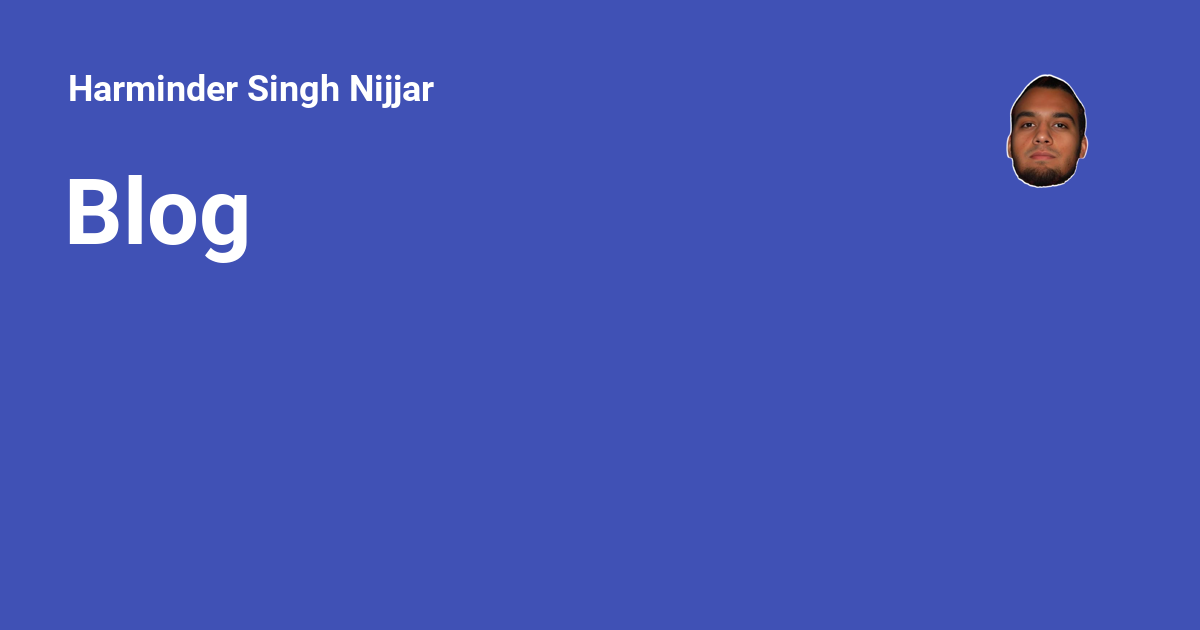
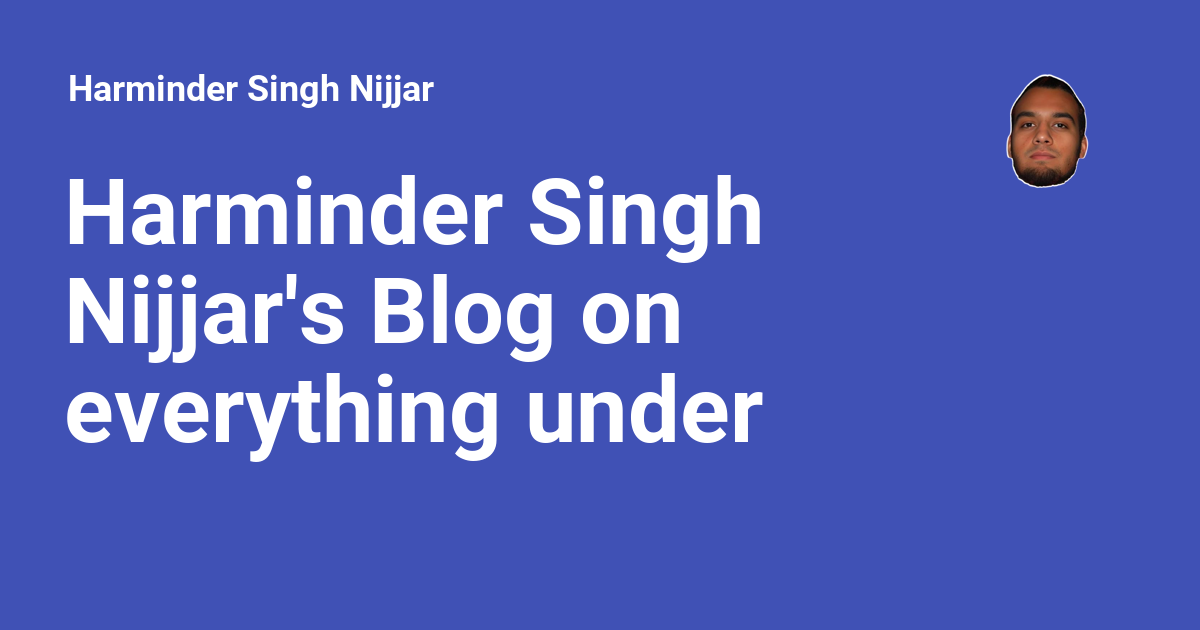
Deployed a961a94 with MkDocs version: 1.6.1

Changed region(s): [[0.0308, 0.2714, 0.6475, 0.573], [0.0308, 0.573, 0.6475, 0.754]]

diff --git a/index.html b/index.html
@@ -11,7 +11,7 @@
 <link href="blog/" rel="next"/>
 <link href="assets/images/favicon.png" rel="icon"/>
 <meta content="mkdocs-1.6.1, mkdocs-material-9.5.45" name="generator"/>
-<title>Home - Harminder Singh Nijjar</title>
+<title>Harminder Singh Nijjar - Personal Documentation Site - Harminder Singh Nijjar</title>
 <link href="assets/stylesheets/main.0253249f.min.css" rel="stylesheet"/>
 <link href="assets/stylesheets/palette.06af60db.min.css" rel="stylesheet"/>
 <link crossorigin="" href="https://fonts.gstatic.com" rel="preconnect">
@@ -34,7 +34,7 @@
 <meta content="Harminder Singh Nijjar" name="twitter:title"/>
 <meta content="None" name="twitter:description"/>
 <meta content="https://harminder.dev/assets/images/social/index.png" name="twitter:image"/>
-<meta content="Home" name="title"/><link href="https://cdnjs.cloudflare.com/ajax/libs/font-awesome/6.4.2/css/all.min.css" rel="stylesheet"><meta content="website" property="og:type"/><meta content="https://harminder.dev/" property="og:url"/><meta content="Home" property="og:title"/><meta content="Welcome to my personal documentation site, a curated collection of notes, guides, and insights that I have found valuable. It is my hope that you will find these resources equally beneficial." property="og:description"/><meta content="summary_large_image" property="twitter:card"/><meta content="https://harminder.dev/" property="twitter:url"/><meta content="Home" property="twitter:title"/><meta content="Welcome to my personal documentation site, a curated collection of notes, guides, and insights that I have found valuable. It is my hope that you will find these resources equally beneficial." property="twitter:description"/><script type="application/ld+json">{"@context": "https://schema.org", "@type": "Article", "headline": "Home", "image": [], "datePublished": "2024-11-24 13:38:12 -0800", "dateModified": "2024-11-25 14:06:06 -0800", "author": [{"@type": "Organization", "name": "Ultralytics", "url": "https://ultralytics.com/"}], "abstract": "Welcome to my personal documentation site, a curated collection of notes, guides, and insights that I have found valuable. It is my hope that you will find these resources equally beneficial."}</script></head>
+<meta content="Harminder Singh Nijjar - Personal Documentation Site" name="title"/><link href="https://cdnjs.cloudflare.com/ajax/libs/font-awesome/6.4.2/css/all.min.css" rel="stylesheet"><meta content="website" property="og:type"/><meta content="https://harminder.dev/" property="og:url"/><meta content="Harminder Singh Nijjar - Personal Documentation Site" property="og:title"/><meta content="Welcome to my personal documentation site, a curated collection of notes, guides, and insights that I have found valuable. It is my hope that you will find these resources equally beneficial." property="og:description"/><meta content="summary_large_image" property="twitter:card"/><meta content="https://harminder.dev/" property="twitter:url"/><meta content="Harminder Singh Nijjar - Personal Documentation Site" property="twitter:title"/><meta content="Welcome to my personal documentation site, a curated collection of notes, guides, and insights that I have found valuable. It is my hope that you will find these resources equally beneficial." property="twitter:description"/><script type="application/ld+json">{"@context": "https://schema.org", "@type": "Article", "headline": "Harminder Singh Nijjar - Personal Documentation Site", "image": [], "datePublished": "2024-11-24 13:38:12 -0800", "dateModified": "2024-11-25 14:06:06 -0800", "author": [{"@type": "Organization", "name": "Ultralytics", "url": "https://ultralytics.com/"}], "abstract": "Welcome to my personal documentation site, a curated collection of notes, guides, and insights that I have found valuable. It is my hope that you will find these resources equally beneficial."}</script></head>
 <body data-md-color-accent="custom" data-md-color-primary="custom" data-md-color-scheme="slate" dir="ltr">
 <input autocomplete="off" class="md-toggle" data-md-toggle="drawer" id="__drawer" type="checkbox"/>
 <input autocomplete="off" class="md-toggle" data-md-toggle="search" id="__search" type="checkbox"/>
@@ -64,7 +64,7 @@
 <div class="md-header__topic" data-md-component="header-topic">
 <span class="md-ellipsis">
             
-              Home
+              Harminder Singh Nijjar - Personal Documentation Site
             
           </span>
 </div>
@@ -127,7 +127,7 @@
   
     
   
-  Home
+  Harminder Singh Nijjar - Personal Documentation Site
 
       </a>
 </li>
@@ -161,13 +161,13 @@
 <input class="md-nav__toggle md-toggle" id="__toc" type="checkbox"/>
 <label class="md-nav__link md-nav__link--active" for="__toc">
 <span class="md-ellipsis">
-    Home
+    Harminder Singh Nijjar - Personal Documentation Site
   </span>
 <span class="md-nav__icon md-icon"></span>
 </label>
 <a class="md-nav__link md-nav__link--active" href=".">
 <span class="md-ellipsis">
-    Home
+    Harminder Singh Nijjar - Personal Documentation Site
   </span>
 </a>
 <nav aria-label="Table of contents" class="md-nav md-nav--secondary">
@@ -236,7 +236,7 @@
 </div>
 <div class="md-content" data-md-component="content">
 <article class="md-content__inner md-typeset">
-<h1>Home</h1>
+<h1>Harminder Singh Nijjar - Personal Documentation Site</h1>
 <p>Welcome to my personal documentation site, a curated collection of notes, guides, and insights that I have found valuable. It is my hope that you will find these resources equally beneficial.  </p>
 <p>Please note that this site is a continuous work in progress, with new content regularly added and existing content frequently updated. The information provided is based on my personal experiences and perspectives, which may not align with every individual's circumstances. Your feedback and suggestions are always welcome, and I encourage you to share your thoughts.  </p>
 <h2 id="projects">Projects</h2>
@@ -244,7 +244,7 @@
 <p>Upon completion, projects will be archived for future reference, so be sure to explore the archive section for a record of past work.  </p>
 <h2 id="blog">Blog</h2>
 <p>The <a href="/blog">blog</a> section features a variety of posts on topics that capture my interest. These include tutorials, guides, opinion pieces, and other content that I hope will provide value and inspiration.</p>
-<div class="git-info" style="font-size: 0.8em; text-align: right; margin-bottom: 10px;"><br/>Created 2024-11-24, Updated 2024-11-25<br/>Authors: <a href="https://github.com/harmindersinghnijjar">harmindersinghnijjar</a> (6)</div>
+<div class="git-info" style="font-size: 0.8em; text-align: right; margin-bottom: 10px;"><br/>Created 2024-11-24, Updated 2024-11-25<br/>Authors: <a href="https://github.com/harmindersinghnijjar">harmindersinghnijjar</a> (6), <a href="https://github.com/harmindersinghnijjar/personal-website">not.committed.yet</a> (1)</div>
 <style>
                 .share-button:hover {
                     filter: brightness(1.2);
@@ -336,7 +336,6 @@
 <script>var consent=__md_get("__consent");if(consent)for(var input of document.forms.consent.elements)input.name&&(input.checked=consent[input.name]||!1);else"file:"!==location.protocol&&setTimeout((function(){document.querySelector("[data-md-component=consent]").hidden=!1}),250);var form=document.forms.consent;for(var action of["submit","reset"])form.addEventListener(action,(function(e){if(e.preventDefault(),"reset"===e.type)for(var n of document.forms.consent.elements)n.name&&(n.checked=!1);__md_set("__consent",Object.fromEntries(Array.from(new FormData(form).keys()).map((function(e){return[e,!0]})))),location.hash="",location.reload()}))</script>
 <script id="__config" type="application/json">{"base": ".", "features": ["navigation.instant", "navigation.instant.progress", "navigation.tracking", "navigation.tabs", "navigation.path", "navigation.prune", "navigation.indexes", "toc.follow", "navigation.top", "navigation.expand", "search.suggest", "search.share"], "search": "assets/javascripts/workers/search.6ce7567c.min.js", "translations": {"clipboard.copied": "Copied to clipboard", "clipboard.copy": "Copy to clipboard", "search.result.more.one": "1 more on this page", "search.result.more.other": "# more on this page", "search.result.none": "No matching documents", "search.result.one": "1 matching document", "search.result.other": "# matching documents", "search.result.placeholder": "Type to start searching", "search.result.term.missing": "Missing", "select.version": "Select version"}}</script>
 <script src="assets/javascripts/bundle.83f73b43.min.js"></script>
-<script src="javascript/extra.js"></script>
 <script src="js/open_in_new_tab.js"></script>
 </body>
 </html>

diff --git a/blog/2024/11/24/my-first-blog-post/index.html b/blog/2024/11/24/my-first-blog-post/index.html
@@ -131,7 +131,7 @@ tempor incididunt ut labore et dolore magna aliqua." property="twitter:descripti
   
     
   
-  Home
+  Harminder Singh Nijjar - Personal Documentation Site
 
       </a>
 </li>
@@ -164,7 +164,7 @@ tempor incididunt ut labore et dolore magna aliqua." property="twitter:descripti
 <li class="md-nav__item">
 <a class="md-nav__link" href="../../../../..">
 <span class="md-ellipsis">
-    Home
+    Harminder Singh Nijjar - Personal Documentation Site
   </span>
 </a>
 </li>
@@ -398,7 +398,6 @@ tempor incididunt ut labore et dolore magna aliqua.</p>
 <script>var consent=__md_get("__consent");if(consent)for(var input of document.forms.consent.elements)input.name&&(input.checked=consent[input.name]||!1);else"file:"!==location.protocol&&setTimeout((function(){document.querySelector("[data-md-component=consent]").hidden=!1}),250);var form=document.forms.consent;for(var action of["submit","reset"])form.addEventListener(action,(function(e){if(e.preventDefault(),"reset"===e.type)for(var n of document.forms.consent.elements)n.name&&(n.checked=!1);__md_set("__consent",Object.fromEntries(Array.from(new FormData(form).keys()).map((function(e){return[e,!0]})))),location.hash="",location.reload()}))</script>
 <script id="__config" type="application/json">{"base": "../../../../..", "features": ["navigation.instant", "navigation.instant.progress", "navigation.tracking", "navigation.tabs", "navigation.path", "navigation.prune", "navigation.indexes", "toc.follow", "navigation.top", "navigation.expand", "search.suggest", "search.share"], "search": "../../../../../assets/javascripts/workers/search.6ce7567c.min.js", "translations": {"clipboard.copied": "Copied to clipboard", "clipboard.copy": "Copy to clipboard", "search.result.more.one": "1 more on this page", "search.result.more.other": "# more on this page", "search.result.none": "No matching documents", "search.result.one": "1 matching document", "search.result.other": "# matching documents", "search.result.placeholder": "Type to start searching", "search.result.term.missing": "Missing", "select.version": "Select version"}}</script>
 <script src="../../../../../assets/javascripts/bundle.83f73b43.min.js"></script>
-<script src="../../../../../javascript/extra.js"></script>
 <script src="../../../../../js/open_in_new_tab.js"></script>
 </body>
 </html>

diff --git a/blog/2024/11/24/using-crosshairahk-to-assist-with-aiming-on-xbox-cloud-gaming/index.html b/blog/2024/11/24/using-crosshairahk-to-assist-with-aiming-on-xbox-cloud-gaming/index.html
@@ -126,7 +126,7 @@
   
     
   
-  Home
+  Harminder Singh Nijjar - Personal Documentation Site
 
       </a>
 </li>
@@ -159,7 +159,7 @@
 <li class="md-nav__item">
 <a class="md-nav__link" href="../../../../..">
 <span class="md-ellipsis">
-    Home
+    Harminder Singh Nijjar - Personal Documentation Site
   </span>
 </a>
 </li>
@@ -465,7 +465,6 @@
 <script>var consent=__md_get("__consent");if(consent)for(var input of document.forms.consent.elements)input.name&&(input.checked=consent[input.name]||!1);else"file:"!==location.protocol&&setTimeout((function(){document.querySelector("[data-md-component=consent]").hidden=!1}),250);var form=document.forms.consent;for(var action of["submit","reset"])form.addEventListener(action,(function(e){if(e.preventDefault(),"reset"===e.type)for(var n of document.forms.consent.elements)n.name&&(n.checked=!1);__md_set("__consent",Object.fromEntries(Array.from(new FormData(form).keys()).map((function(e){return[e,!0]})))),location.hash="",location.reload()}))</script>
 <script id="__config" type="application/json">{"base": "../../../../..", "features": ["navigation.instant", "navigation.instant.progress", "navigation.tracking", "navigation.tabs", "navigation.path", "navigation.prune", "navigation.indexes", "toc.follow", "navigation.top", "navigation.expand", "search.suggest", "search.share"], "search": "../../../../../assets/javascripts/workers/search.6ce7567c.min.js", "translations": {"clipboard.copied": "Copied to clipboard", "clipboard.copy": "Copy to clipboard", "search.result.more.one": "1 more on this page", "search.result.more.other": "# more on this page", "search.result.none": "No matching documents", "search.result.one": "1 matching document", "search.result.other": "# matching documents", "search.result.placeholder": "Type to start searching", "search.result.term.missing": "Missing", "select.version": "Select version"}}</script>
 <script src="../../../../../assets/javascripts/bundle.83f73b43.min.js"></script>
-<script src="../../../../../javascript/extra.js"></script>
 <script src="../../../../../js/open_in_new_tab.js"></script>
 </body>
 </html>

diff --git a/blog/2024/11/25/digital-art-blog-post-1/index.html b/blog/2024/11/25/digital-art-blog-post-1/index.html
@@ -127,7 +127,7 @@
   
     
   
-  Home
+  Harminder Singh Nijjar - Personal Documentation Site
 
       </a>
 </li>
@@ -160,7 +160,7 @@
 <li class="md-nav__item">
 <a class="md-nav__link" href="../../../../..">
 <span class="md-ellipsis">
-    Home
+    Harminder Singh Nijjar - Personal Documentation Site
   </span>
 </a>
 </li>
@@ -407,7 +407,6 @@
 <script>var consent=__md_get("__consent");if(consent)for(var input of document.forms.consent.elements)input.name&&(input.checked=consent[input.name]||!1);else"file:"!==location.protocol&&setTimeout((function(){document.querySelector("[data-md-component=consent]").hidden=!1}),250);var form=document.forms.consent;for(var action of["submit","reset"])form.addEventListener(action,(function(e){if(e.preventDefault(),"reset"===e.type)for(var n of document.forms.consent.elements)n.name&&(n.checked=!1);__md_set("__consent",Object.fromEntries(Array.from(new FormData(form).keys()).map((function(e){return[e,!0]})))),location.hash="",location.reload()}))</script>
 <script id="__config" type="application/json">{"base": "../../../../..", "features": ["navigation.instant", "navigation.instant.progress", "navigation.tracking", "navigation.tabs", "navigation.path", "navigation.prune", "navigation.indexes", "toc.follow", "navigation.top", "navigation.expand", "search.suggest", "search.share"], "search": "../../../../../assets/javascripts/workers/search.6ce7567c.min.js", "translations": {"clipboard.copied": "Copied to clipboard", "clipboard.copy": "Copy to clipboard", "search.result.more.one": "1 more on this page", "search.result.more.other": "# more on this page", "search.result.none": "No matching documents", "search.result.one": "1 matching document", "search.result.other": "# matching documents", "search.result.placeholder": "Type to start searching", "search.result.term.missing": "Missing", "select.version": "Select version"}}</script>
 <script src="../../../../../assets/javascripts/bundle.83f73b43.min.js"></script>
-<script src="../../../../../javascript/extra.js"></script>
 <script src="../../../../../js/open_in_new_tab.js"></script>
 </body>
 </html>

diff --git a/blog/index.html b/blog/index.html
@@ -22,7 +22,7 @@
     
     
       
-        <title>Blog - Harminder Singh Nijjar</title>
+        <title>Harminder Singh Nijjar's Blog on everything under the sun - Harminder Singh Nijjar</title>
       
     
     
@@ -71,7 +71,7 @@
       
         <meta  property="og:type"  content="website" >
       
-        <meta  property="og:title"  content="Blog - Harminder Singh Nijjar" >
+        <meta  property="og:title"  content="Harminder Singh Nijjar's Blog on everything under the sun - Harminder Singh Nijjar" >
       
         <meta  property="og:description"  content="None" >
       
@@ -87,7 +87,7 @@
       
         <meta  name="twitter:card"  content="summary_large_image" >
       
-        <meta  name="twitter:title"  content="Blog - Harminder Singh Nijjar" >
+        <meta  name="twitter:title"  content="Harminder Singh Nijjar's Blog on everything under the sun - Harminder Singh Nijjar" >
       
         <meta  name="twitter:description"  content="None" >
       
@@ -147,7 +147,7 @@
         <div class="md-header__topic" data-md-component="header-topic">
           <span class="md-ellipsis">
             
-              Blog
+              Harminder Singh Nijjar's Blog on everything under the sun
             
           </span>
         </div>
@@ -254,7 +254,7 @@
   
     
   
-  Home
+  Harminder Singh Nijjar - Personal Documentation Site
 
       </a>
     </li>
@@ -326,7 +326,7 @@
         
   
   <span class="md-ellipsis">
-    Home
+    Harminder Singh Nijjar - Personal Documentation Site
   </span>
   
 
@@ -837,8 +837,6 @@ tempor incididunt ut labore et dolore magna aliqua.</p>
     
     
       <script src="../assets/javascripts/bundle.83f73b43.min.js"></script>
-      
-        <script src="../javascript/extra.js"></script>
       
         <script src="../js/open_in_new_tab.js"></script>
       

diff --git a/blog/archive/2024/index.html b/blog/archive/2024/index.html
@@ -252,7 +252,7 @@
   
     
   
-  Home
+  Harminder Singh Nijjar - Personal Documentation Site
 
       </a>
     </li>
@@ -324,7 +324,7 @@
         
   
   <span class="md-ellipsis">
-    Home
+    Harminder Singh Nijjar - Personal Documentation Site
   </span>
   
 
@@ -934,8 +934,6 @@ tempor incididunt ut labore et dolore magna aliqua.</p>
     
     
       <script src="../../../assets/javascripts/bundle.83f73b43.min.js"></script>
-      
-        <script src="../../../javascript/extra.js"></script>
       
         <script src="../../../js/open_in_new_tab.js"></script>
       

diff --git a/blog/category/art/index.html b/blog/category/art/index.html
@@ -254,7 +254,7 @@
   
     
   
-  Home
+  Harminder Singh Nijjar - Personal Documentation Site
 
       </a>
     </li>
@@ -326,7 +326,7 @@
         
   
   <span class="md-ellipsis">
-    Home
+    Harminder Singh Nijjar - Personal Documentation Site
   </span>
   
 
@@ -869,8 +869,6 @@
     
     
       <script src="../../../assets/javascripts/bundle.83f73b43.min.js"></script>
-      
-        <script src="../../../javascript/extra.js"></script>
       
         <script src="../../../js/open_in_new_tab.js"></script>
       

diff --git a/blog/category/gaming/index.html b/blog/category/gaming/index.html
@@ -254,7 +254,7 @@
   
     
   
-  Home
+  Harminder Singh Nijjar - Personal Documentation Site
 
       </a>
     </li>
@@ -326,7 +326,7 @@
         
   
   <span class="md-ellipsis">
-    Home
+    Harminder Singh Nijjar - Personal Documentation Site
   </span>
   
 
@@ -885,8 +885,6 @@
     
     
       <script src="../../../assets/javascripts/bundle.83f73b43.min.js"></script>
-      
-        <script src="../../../javascript/extra.js"></script>
       
         <script src="../../../js/open_in_new_tab.js"></script>
       

diff --git a/blog/category/programming/index.html b/blog/category/programming/index.html
@@ -254,7 +254,7 @@
   
     
   
-  Home
+  Harminder Singh Nijjar - Personal Documentation Site
 
       </a>
     </li>
@@ -326,7 +326,7 @@
         
   
   <span class="md-ellipsis">
-    Home
+    Harminder Singh Nijjar - Personal Documentation Site
   </span>
   
 
@@ -885,8 +885,6 @@
     
     
       <script src="../../../assets/javascripts/bundle.83f73b43.min.js"></script>
-      
-        <script src="../../../javascript/extra.js"></script>
       
         <script src="../../../js/open_in_new_tab.js"></script>
       

diff --git a/404.html b/404.html
@@ -217,7 +217,7 @@
   
     
   
-  Home
+  Harminder Singh Nijjar - Personal Documentation Site
 
       </a>
     </li>
@@ -287,7 +287,7 @@
         
   
   <span class="md-ellipsis">
-    Home
+    Harminder Singh Nijjar - Personal Documentation Site
   </span>
   
 
@@ -521,8 +521,6 @@
     
     
       <script src="/assets/javascripts/bundle.83f73b43.min.js"></script>
-      
-        <script src="/javascript/extra.js"></script>
       
         <script src="/js/open_in_new_tab.js"></script>
       
